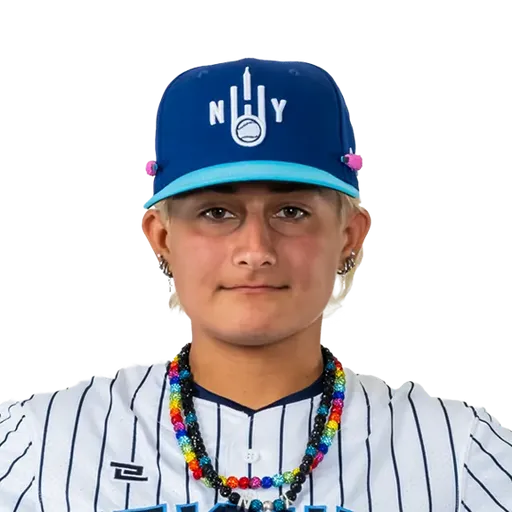
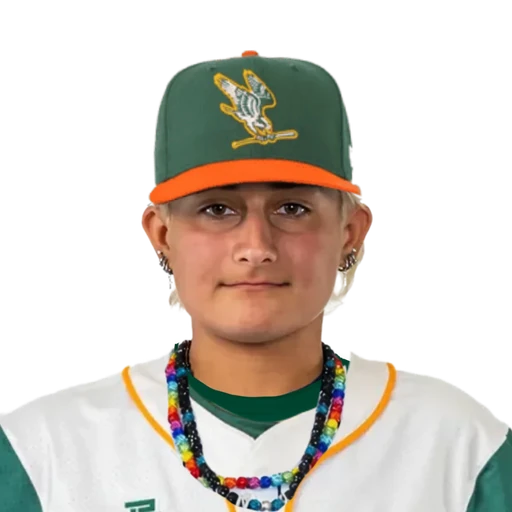
Trades move the player; Zettlemoyer on the Hunters (#341)
A recorded trade was in wpbl_roster_moves and nowhere else, so a traded
player's roster row kept the old club: the player page, the portrait's
club color, search and the share card all read team_id, and only the
ingest writes it, off box scores the offseason does not have. A trigger
now moves the player when a trade is recorded, with team_as_of at the
announcement so a re-read of an old box score cannot move them back.
Applied live; Alyssa Zettlemoyer is on Boston.

Her portrait is an edited copy of the league's photo in the Hunters cap
and jersey, kept until the league publishes a Boston headshot, and her
share card is rebuilt on Boston.

🤖 Generated with [Claude Code](https://claude.com/claude-code)

---------

diff --git a/ARCHITECTURE.md b/ARCHITECTURE.md
@@ -460,7 +460,7 @@ flowchart TB
         t_pwin["wpbl_predict_winners<br/>(one winner per game)"]
         t_corr["wpbl_play_corrections<br/>(OUR fixes, not the feed's)"]
         t_rev["wpbl_game_revisions<br/>(what the league changed after final; append-only)"]
-        t_moves["wpbl_player_team_changes<br/>(trades the ingest spotted)"]
+        t_moves["wpbl_player_team_changes<br/>(trades the ingest spotted, and recorded trades)"]
         t_restock["wpbl_restock_watch<br/>(shortlist: shout about these)"]
         t_shopp["wpbl_shop_products<br/>+ wpbl_shop_variants<br/>(catalog snapshot)"]
         t_shopr["wpbl_shop_watch_runs<br/>(watcher health, per source)"]
@@ -512,7 +512,7 @@ changes club, flags both ACTIVE and links them with nothing, so `wpbl_players.ap
 every id a person has ever had (`api_id` is whichever is current) and the ingest matches on
 any of them. `team_as_of` records the date of the newest box score that placed her on
 `team_id`, which is what stops a re-read of an old game from undoing a trade, and every move
-the ingest makes on its own is logged to `wpbl_player_team_changes`. Historical team is never
+the ingest makes on its own is logged to `wpbl_player_team_changes`. A `traded` row in `wpbl_roster_moves` moves the player too (trigger `wpbl_apply_trade`): `team_id` goes to the receiving club and `team_as_of` to the announcement date, so no older box score can move them back, and the move is logged with reason `roster move`. Historical team is never
 read off the roster row: box-score lines and plays each carry the club that game was played
 for, and that is what the game logs and team pages use.
 
